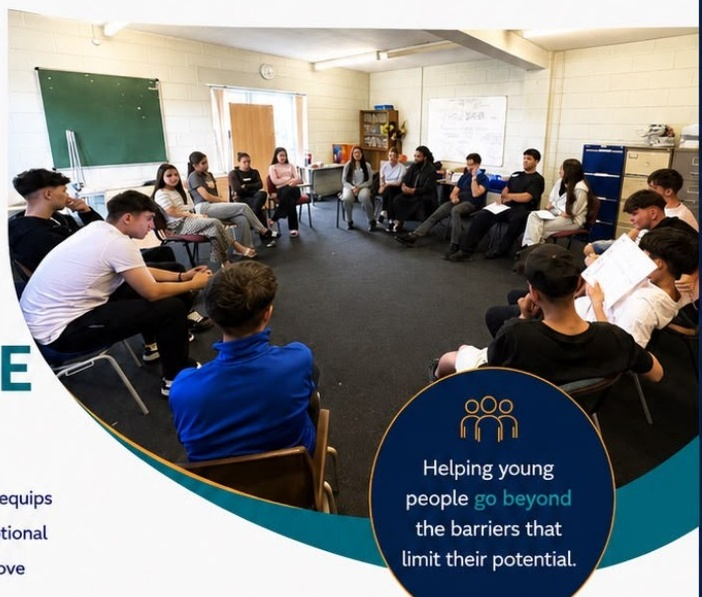
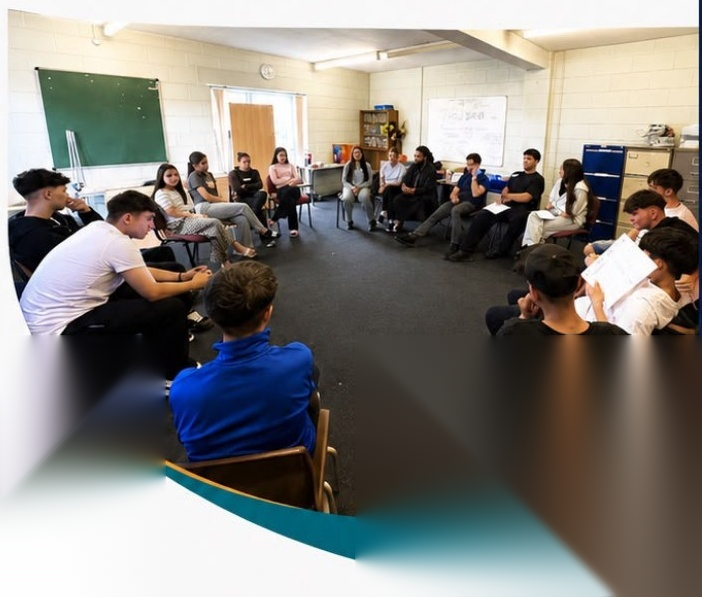
Website upd. 4 🙏

diff --git a/index.html b/index.html
@@ -44,7 +44,7 @@
       </div>
 
       <div class="circle-note">
-        <div class="people-icon"><svg viewBox="0 0 24 24" fill="none" stroke="currentColor" stroke-width="1.6" stroke-linecap="round" stroke-linejoin="round"><circle cx="8.5" cy="8" r="3"/><path d="M3.5 20v-1a5 5 0 0 1 5-5h1a5 5 0 0 1 4 2"/><circle cx="17" cy="9" r="2.4"/><path d="M14.8 12a4 4 0 0 1 5.7 3.6V20"/></svg></div>
+        <div class="people-icon"><svg viewBox="0 0 24 24" fill="none" stroke="currentColor" stroke-width="1.5" stroke-linecap="round" stroke-linejoin="round"><circle cx="12" cy="5.5" r="2.3"/><circle cx="5" cy="7" r="2"/><circle cx="19" cy="7" r="2"/><path d="M8 19v-2.5a4 4 0 0 1 8 0V19"/><path d="M2.5 19v-2a3.4 3.4 0 0 1 4.3-3.3"/><path d="M21.5 19v-2a3.4 3.4 0 0 0-4.3-3.3"/></svg></div>
         <strong>Helping young<br>people <em>go beyond</em><br>the barriers that<br>limit their potential.</strong>
       </div>
     </section>
@@ -57,7 +57,7 @@
           <article><b><svg viewBox="0 0 24 24" fill="none" stroke="currentColor" stroke-width="1.6" stroke-linecap="round" stroke-linejoin="round"><path d="M12 3 5 5.5v5c0 5 3 8.3 7 9.5 4-1.2 7-4.5 7-9.5v-5L12 3Z"/><path d="M9 12l2 2 4-4.5"/></svg></b><span>Emotional<br>resilience</span></article>
           <article><b><svg viewBox="0 0 24 24" fill="none" stroke="currentColor" stroke-width="1.6" stroke-linecap="round" stroke-linejoin="round"><path d="M12 20c-3-2-4.5-4.5-4.5-8 0-2.3.9-3.8 2-5 0 1.8.8 2.8 1.5 3.5C11.6 9 12 7.5 12 6c0 1.5.4 3 1 4.5.7-.7 1.5-1.7 1.5-3.5 1.1 1.2 2 2.7 2 5 0 3.5-1.5 6-4.5 8Z"/></svg></b><span>Healthy coping<br>strategies</span></article>
           <article><b>♡</b><span>Emotional<br>awareness</span></article>
-          <article><b><svg viewBox="0 0 24 24" fill="none" stroke="currentColor" stroke-width="1.6" stroke-linecap="round" stroke-linejoin="round"><circle cx="8.5" cy="8" r="3"/><path d="M3.5 20v-1a5 5 0 0 1 5-5h1a5 5 0 0 1 4 2"/><circle cx="17" cy="9" r="2.4"/><path d="M14.8 12a4 4 0 0 1 5.7 3.6V20"/></svg></b><span>Positive identity<br>&amp; belonging</span></article>
+          <article><b><svg viewBox="0 0 24 24" fill="none" stroke="currentColor" stroke-width="1.5" stroke-linecap="round" stroke-linejoin="round"><circle cx="12" cy="5.5" r="2.3"/><circle cx="5" cy="7" r="2"/><circle cx="19" cy="7" r="2"/><path d="M8 19v-2.5a4 4 0 0 1 8 0V19"/><path d="M2.5 19v-2a3.4 3.4 0 0 1 4.3-3.3"/><path d="M21.5 19v-2a3.4 3.4 0 0 0-4.3-3.3"/></svg></b><span>Positive identity<br>&amp; belonging</span></article>
           <article><b><svg viewBox="0 0 24 24" fill="none" stroke="currentColor" stroke-width="1.6" stroke-linecap="round" stroke-linejoin="round"><circle cx="8.5" cy="12" r="5.5"/><circle cx="15.5" cy="12" r="5.5"/></svg></b><span>Respect for<br>diversity</span></article>
           <article><b><svg viewBox="0 0 24 24" fill="none" stroke="currentColor" stroke-width="1.6" stroke-linecap="round" stroke-linejoin="round"><path d="M12 3v18"/><path d="M12 7h6l-1.6 2L18 11h-6"/><path d="M12 14H6l1.6 2L6 18h6"/></svg></b><span>Decision-making<br>skills</span></article>
           <article><b><svg viewBox="0 0 24 24" fill="none" stroke="currentColor" stroke-width="1.6" stroke-linecap="round" stroke-linejoin="round"><circle cx="8.5" cy="8" r="3"/><path d="M3.5 20v-1a5 5 0 0 1 5-5h1a5 5 0 0 1 4 2"/><circle cx="17" cy="9" r="2.4"/><path d="M14.8 12a4 4 0 0 1 5.7 3.6V20"/></svg></b><span>Resistance to<br>negative peer<br>pressure</span></article>
@@ -92,7 +92,7 @@
           <li>Local Authorities</li>
           <li>Community Organisations</li>
         </ul>
-        <div class="age-badge"><span class="age-icon"><svg viewBox="0 0 24 24" fill="none" stroke="currentColor" stroke-width="1.6" stroke-linecap="round" stroke-linejoin="round"><circle cx="8.5" cy="8" r="3"/><path d="M3.5 20v-1a5 5 0 0 1 5-5h1a5 5 0 0 1 4 2"/><circle cx="17" cy="9" r="2.4"/><path d="M14.8 12a4 4 0 0 1 5.7 3.6V20"/></svg></span><span>Suitable for young<br>people aged <strong>11–18</strong>.</span></div>
+        <div class="age-badge"><span class="age-icon"><svg viewBox="0 0 24 24" fill="none" stroke="currentColor" stroke-width="1.5" stroke-linecap="round" stroke-linejoin="round"><circle cx="12" cy="5.5" r="2.3"/><circle cx="5" cy="7" r="2"/><circle cx="19" cy="7" r="2"/><path d="M8 19v-2.5a4 4 0 0 1 8 0V19"/><path d="M2.5 19v-2a3.4 3.4 0 0 1 4.3-3.3"/><path d="M21.5 19v-2a3.4 3.4 0 0 0-4.3-3.3"/></svg></span><span>Suitable for young<br>people aged <strong>11–18</strong>.</span></div>
       </div>
 
       <div class="delivered">

diff --git a/styles.css b/styles.css
@@ -275,7 +275,7 @@ footer b{color:var(--gold)}
 .qr{
   width:75px;height:75px;
   margin-top:5px;
-  background:#fff;
+  background:#f6f7f9;
   padding:4px;
   display:flex;align-items:center;justify-content:center;
 }
